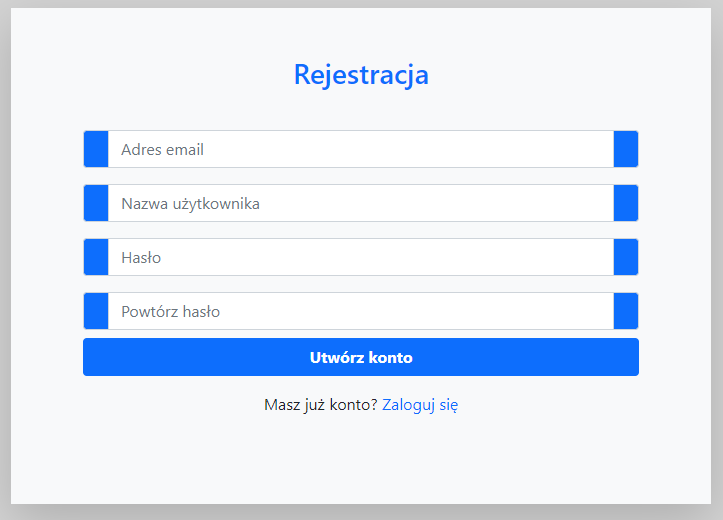
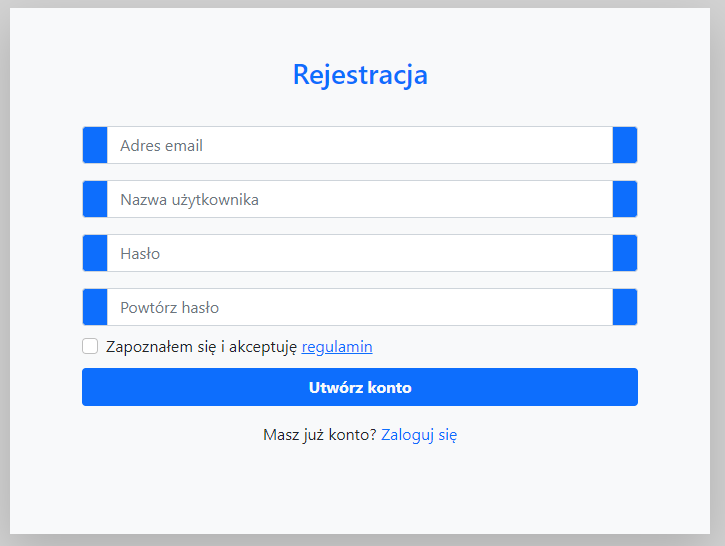
update readme

Changed region(s): [[0.0913, 0.2154, 0.8824, 0.8308], [0.0, 0.0308, 1.0, 0.9846], [0.3956, 0.0923, 0.6086, 0.1846]]

diff --git a/README.md b/README.md
@@ -18,92 +18,119 @@ The project is a complete file package to create applications in PHP technology.
 6. Import tables from file `./sql/database.sql` to your database
 
 ## Tree directory
-   - [composer.json](composer.json)
-   - [composer.lock](composer.lock)
-   - __config__
-     - [config\_dist.php](config/config_dist.php)
-   - [index.php](index.php)
-   - __public__
-     - __css__
-       - [contact.css](public/css/contact.css)
-       - [profile.css](public/css/profile.css)
-       - [style.css](public/css/style.css)
-     - __images__
-       - __SocialMedia__
-         - [facebook.png](public/images/SocialMedia/facebook.png)
-         - [instagram.png](public/images/SocialMedia/instagram.png)
-         - [linkedin.png](public/images/SocialMedia/linkedin.png)
-         - [twitter.png](public/images/SocialMedia/twitter.png)
-         - [youtube.png](public/images/SocialMedia/youtube.png)
-       - [avatar.png](public/images/avatar.png)
-     - __js__
-       - [main.js](public/js/main.js)
-   - [recaptchalib.php](recaptchalib.php)
-   - __routes__
-     - [routes.php](routes/routes.php)
-   - __sql__
-     - [database.sql](sql/database.sql)
-   - __src__
-     - [Component.php](src/Component.php)
-     - __Controller__
-       - [AuthController.php](src/Controller/AuthController.php)
-       - [Controller.php](src/Controller/Controller.php)
-       - [GeneralController.php](src/Controller/GeneralController.php)
-       - [UserController.php](src/Controller/UserController.php)
-     - __Exception__
-       - [AppException.php](src/Exception/AppException.php)
-       - [ConfigurationException.php](src/Exception/ConfigurationException.php)
-       - [NotFoundException.php](src/Exception/NotFoundException.php)
-       - [StorageException.php](src/Exception/StorageException.php)
-     - __Helper__
-       - [Request.php](src/Helper/Request.php)
-       - [Session.php](src/Helper/Session.php)
-     - __Model__
-       - [Auth.php](src/Model/Auth.php)
-       - [Config.php](src/Model/Config.php)
-       - [Mail.php](src/Model/Mail.php)
-       - [Model.php](src/Model/Model.php)
-       - [Route.php](src/Model/Route.php)
-       - [Rules.php](src/Model/Rules.php)
-       - [User.php](src/Model/User.php)
-     - __Repository__
-       - [AuthRepository.php](src/Repository/AuthRepository.php)
-       - [Repository.php](src/Repository/Repository.php)
-       - [UserRepository.php](src/Repository/UserRepository.php)
-     - __Rules__
-       - [AuthRules.php](src/Rules/AuthRules.php)
-       - [UserRules.php](src/Rules/UserRules.php)
-     - __Utils__
-       - [debug.php](src/Utils/debug.php)
-     - __Validator__
-       - [Validator.php](src/Validator/Validator.php)
-     - [View.php](src/View.php)
-   - __templates__
-     - __auth__
-       - [forgotPassword.php](templates/auth/forgotPassword.php)
-       - [login.php](templates/auth/login.php)
-       - [register.php](templates/auth/register.php)
-       - [resetPassword.php](templates/auth/resetPassword.php)
-     - __component__
-       - __button__
-         - [back.php](templates/component/button/back.php)
-       - [error.php](templates/component/error.php)
-       - __form__
-         - [button.php](templates/component/form/button.php)
-         - [input.php](templates/component/form/input.php)
-     - __general__
-       - [contact.php](templates/general/contact.php)
-       - [home.php](templates/general/home.php)
-       - [policy.php](templates/general/policy.php)
-       - [regulations.php](templates/general/regulations.php)
-     - __layout__
-       - [main.php](templates/layout/main.php)
-     - [messages.php](templates/messages.php)
-     - __user__
-       - [profile.php](templates/user/profile.php)
-   - __uploads__
-     - __images__
-       - __avatar__
+   - 📄 [README.md](README.md)        
+   - 📄 [composer.json](composer.json)
+   - 📄 [composer.lock](composer.lock)
+   - 📂 __config__
+     - 📄 [config\_dist.php](config/config_dist.php)
+   - 📄 [index.php](index.php)
+   - 📂 __public__
+     - 📂 __css__
+       - 📄 [contact.css](public/css/contact.css)
+       - 📄 [profile.css](public/css/profile.css)
+       - 📄 [style.css](public/css/style.css)
+     - 📂 __images__
+       - 📂 __SocialMedia__
+         - 📄 [facebook.png](public/images/SocialMedia/facebook.png)
+         - 📄 [instagram.png](public/images/SocialMedia/instagram.png)
+         - 📄 [linkedin.png](public/images/SocialMedia/linkedin.png)
+         - 📄 [twitter.png](public/images/SocialMedia/twitter.png)
+         - 📄 [youtube.png](public/images/SocialMedia/youtube.png)
+       - 📄 [avatar.png](public/images/avatar.png)
+     - 📂 __js__
+       - 📄 [main.js](public/js/main.js)
+   - 📂 __readme\_img__
+     - 📂 __components__
+       - 📄 [button.dropdown.hide.png](readme_img/components/button.dropdown.hide.png)
+       - 📄 [button.dropdown.show.png](readme_img/components/button.dropdown.show.png)
+       - 📄 [button.link.png](readme_img/components/button.link.png)
+       - 📄 [error\_1.png](readme_img/components/error_1.png)
+       - 📄 [error\_2.png](readme_img/components/error_2.png)
+       - 📄 [form.checbox.png](readme_img/components/form.checbox.png)
+       - 📄 [form.select.data.png](readme_img/components/form.select.data.png)
+       - 📄 [form.select\_1.png](readme_img/components/form.select_1.png)
+       - 📄 [form.select\_2.png](readme_img/components/form.select_2.png)
+     - 📂 __menu__
+       - 📄 [guest.png](readme_img/menu/guest.png)
+       - 📄 [user.png](readme_img/menu/user.png)
+     - 📂 __other__
+       - 📄 [rules.png](readme_img/other/rules.png)
+     - 📂 __template__
+       - 📄 [login.png](readme_img/template/login.png)
+       - 📄 [profile.png](readme_img/template/profile.png)
+       - 📄 [register.png](readme_img/template/register.png)
+   - 📄 [recaptchalib.php](recaptchalib.php)
+   - 📂 __routes__
+     - 📄 [routes.php](routes/routes.php)
+   - 📂 __sql__
+     - 📄 [database.sql](sql/database.sql)
+   - 📂 __src__
+     - 📂 __Component__
+       - 📄 [Component.php](src/Component/Component.php)
+       - 📄 [Rules.php](src/Component/Rules.php)
+     - 📂 __Controller__
+       - 📄 [AuthController.php](src/Controller/AuthController.php)
+       - 📄 [Controller.php](src/Controller/Controller.php)
+       - 📄 [GeneralController.php](src/Controller/GeneralController.php)
+       - 📄 [UserController.php](src/Controller/UserController.php)
+     - 📂 __Exception__
+       - 📄 [AppException.php](src/Exception/AppException.php)
+       - 📄 [ConfigurationException.php](src/Exception/ConfigurationException.php)
+       - 📄 [NotFoundException.php](src/Exception/NotFoundException.php)
+       - 📄 [StorageException.php](src/Exception/StorageException.php)
+     - 📂 __Helper__
+       - 📄 [CheckBox.php](src/Helper/CheckBox.php)
+       - 📄 [Request.php](src/Helper/Request.php)
+       - 📄 [Session.php](src/Helper/Session.php)
+     - 📂 __Model__
+       - 📄 [Auth.php](src/Model/Auth.php)
+       - 📄 [Config.php](src/Model/Config.php)
+       - 📄 [Mail.php](src/Model/Mail.php)
+       - 📄 [Model.php](src/Model/Model.php)
+       - 📄 [Route.php](src/Model/Route.php)
+       - 📄 [Rules.php](src/Model/Rules.php)
+       - 📄 [User.php](src/Model/User.php)
+     - 📂 __Repository__
+       - 📄 [AuthRepository.php](src/Repository/AuthRepository.php)
+       - 📄 [Repository.php](src/Repository/Repository.php)
+       - 📄 [UserRepository.php](src/Repository/UserRepository.php)
+     - 📂 __Rules__
+       - 📄 [AuthRules.php](src/Rules/AuthRules.php)
+       - 📄 [UserRules.php](src/Rules/UserRules.php)
+     - 📂 __Utils__
+       - 📄 [debug.php](src/Utils/debug.php)
+     - 📂 __Validator__
+       - 📄 [Validator.php](src/Validator/Validator.php)
+     - 📄 [View.php](src/View.php)
+   - 📂 __templates__
+     - 📂 __auth__
+       - 📄 [forgotPassword.php](templates/auth/forgotPassword.php)
+       - 📄 [login.php](templates/auth/login.php)
+       - 📄 [register.php](templates/auth/register.php)
+       - 📄 [resetPassword.php](templates/auth/resetPassword.php)
+     - 📂 __component__
+       - 📂 __button__
+         - 📄 [dropdown.php](templates/component/button/dropdown.php)
+         - 📄 [link.php](templates/component/button/link.php)
+       - 📄 [error.php](templates/component/error.php)
+       - 📂 __form__
+         - 📄 [checkbox.php](templates/component/form/checkbox.php)
+         - 📄 [input.php](templates/component/form/input.php)
+         - 📄 [select.php](templates/component/form/select.php)
+         - 📄 [submit.php](templates/component/form/submit.php)
+     - 📂 __general__
+       - 📄 [contact.php](templates/general/contact.php)
+       - 📄 [home.php](templates/general/home.php)
+       - 📄 [policy.php](templates/general/policy.php)
+       - 📄 [regulations.php](templates/general/regulations.php)
+     - 📂 __layout__
+       - 📄 [main.php](templates/layout/main.php)
+     - 📄 [messages.php](templates/messages.php)
+     - 📂 __user__
+       - 📄 [profile.php](templates/user/profile.php)
+   - 📂 __uploads__
+     - 📂 __images__
+       - 📂 __avatar__
 
 ## Table of contents
 - [Routing](#routing)
@@ -144,6 +171,7 @@ The project is a complete file package to create applications in PHP technology.
 - [Helpers](#helpers)
   - [Session](#session)
   - [Request](#request)
+  - [Checkbox](#checkbox)
 ## Routing
 ### How to create new routing
 Create a new route in `routes/routes.php` by method `group()`.
@@ -235,23 +263,23 @@ namespace App\Rules;
 
 use App\Model\Rules;
 
-class UserRules extends Rules
+class AuthRules extends Rules
 {
     public function rules()
     {
-        $this->createRule('username', ['min' => 3, "max" => 16, 'specialCharacters' => false]);
+        $this->createRule('username', ['min' => 3, "max" => 16]);
     }
 
     public function messages()
     {
         $this->createMessages('username', [
-            'min' => "Username cannot contain less than". $this->value('username.min') "characters",
-            'max' => "Username cannot contain more than". $this->value('username.max') "characters",
-            'specialCharacters' => "Username cannot contain special characters",
+            'min' => "Username cannot contain less than ". $this->value('username.min') .  "characters",
+            'max' => "Username cannot contain more than ". $this->value('username.max') . " characters",
         ]);
     }
 }
 ```
+![](readme_img/other/rules.png)
 
 `min` and `max` rules can be package in `between` rule like here:
 ```
@@ -259,31 +287,18 @@ class AuthRules extends Rules
 {
     public function rules()
     {
-        $this->createRule('username', ['between' => ['min' => 3, "max" => 16], 'specialCharacters' => false]);
-        $this->createRule('password', ['between' => ['min' => 6, 'max' => 36]]);
+        $this->createRule('username', ['between' => ['min' => 3, "max" => 16]]);
     }
 
     public function messages()
     {
         $this->createMessages('username', [
             'between' => "Username should contain from " . $this->between('username.min') . " to " . $this->between('username.max') . " characters",
-            'specialCharacters' => "Username cannot contain special characters",
-        ]);
-
-        $this->createMessages('password', [
-            'between' => "Password should contain from " . $this->between('password.min') . " to " . $this->between('password.max') . " characters",
-        ]);
-
-        $this->createMessages('email', [
-            'sanitize' => "Email address contains illegal characters",
-            'validate' => "The email address is not valid",
         ]);
     }
 }
 ```
-
-The structure of object in above example looks like this:
-![](readme_img/other/rules.png)
+![](readme_img/other/rules.between.png)
 
 ### Rules model
 * **createRule(string $type, array $rules): void**: Method adds type of rule with rules to array.
@@ -346,8 +361,8 @@ public function createMessages(string $type, array $rules): void
 public function messages()
 {
     $this->createMessages('username', [
-        'min' => "Username cannot contain less than". $this->value('username.min') "characters",
-        'max' => "Username cannot contain more than". $this->value('username.max') "characters",
+        'min' => "Username cannot contain less than ". $this->value('username.min') . " characters",
+        'max' => "Username cannot contain more than ". $this->value('username.max') . " characters",
         'specialCharacters' => "Username cannot contain special characters",
     ]);
 }
@@ -701,6 +716,7 @@ public function registerAction(): void
     if ($this->request->isPost() && $this->request->hasPostNames($names)) {
         $data = $this->request->postParams($names);
         $data['avatar'] = self::$config->get('default.path.avatar');
+        $data['regulations'] = Checkbox::get($this->request->postParam('regulations', false));
 
         if ($this->model->register($data)) {
             $this->redirect(self::$route->get('auth.login'), ['email' => $data['email']]);
@@ -1841,7 +1857,7 @@ private static $rules = [
     ],
 
     'form' => [
-        'checkbox' => ['id', 'name', 'label', 'checked'],
+        'checkbox' => ['id', 'name', 'label'],
         'input' => ['type', 'name'],
         'select' => ['name', 'options', 'selected', 'show', 'label'],
         'submit' => ['text'],
@@ -1914,7 +1930,6 @@ Component::render('form.checkbox', [
     'id' => "regulations",
     'name' => "regulations",
     'label' => "I have read the regulations",
-    'checked' => false,
 ]);
 ```
 ![](readme_img/components/form.checbox.png)
@@ -2173,5 +2188,14 @@ public function queryString(): string
 public function file(string $name, $default = null)
 {
     return $this->files[$name] ?? $default;
+}
+```
+
+### Checkbox
+* **get**: Method returns 1 or 0 in dependens if checkbox exists.
+```
+public static function get($checkbox)
+{
+    if ($checkbox) {return 1;} else {return 0;}
 }
 ```
